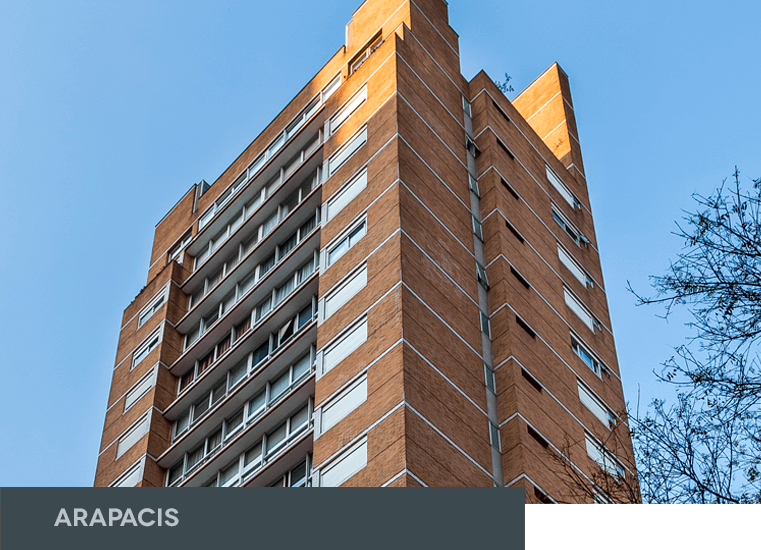
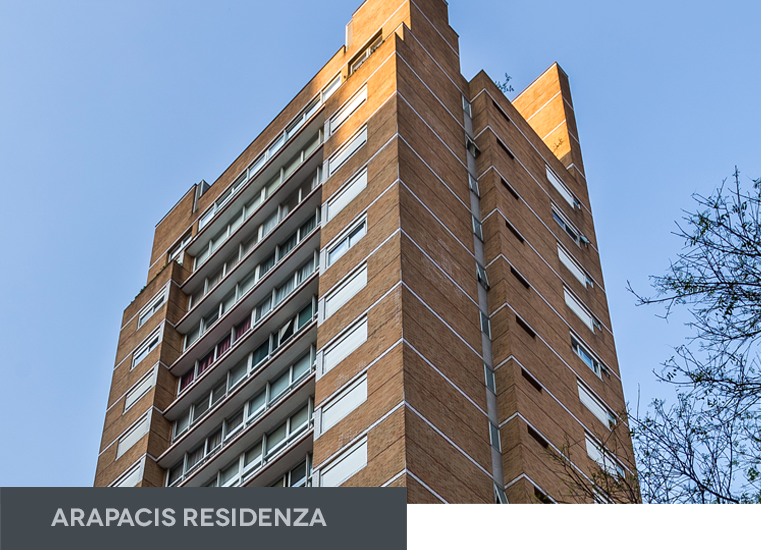
Ajuste pedido cliente

diff --git a/application/views/home_view.php b/application/views/home_view.php
@@ -207,13 +207,10 @@
                     <p>empreendimentos <span>residenciais</span></p>
                 </div>
             </div>
-
-
-
-            <!--<div class="col-xs-12 visible-xs margin-top-20"></div>
+            <div class="col-xs-12 visible-xs margin-top-20"></div>
             <div class="col-xs-12 col-sm-12 col-md-10 col-md-offset-1 padding-off-mobile animated wow bounceInRight">
                 <div class="col-xs-12 col-sm-6">
-                    <p class="p-r">empreendimentos <span>comerciais</span></p>
+                    <p class="p-r"><span>Hotelaria</span></p>
                 </div>
                 <div class="col-xs-12 col-sm-6 padding-off-mobile">
                     <div class="carousel slide media-carousel" id="hotelaria">
@@ -221,40 +218,18 @@
                             <div class="item active">
                                 <div class="row">
                                     <div class="col-xs-12 col-md-12">
-                                        <a href="#" data-toggle="modal" data-target="#Modal-Cidade-Jardim">
-                                            <img class="img-responsive center-block" src="<?= base_url(); ?>assets/images/Cidade-Jardim.png" alt="Cidade Jardim">
-                                        </a>
-                                    </div>
-                                </div>
-                            </div>
-                            <div class="item">
-                                <div class="row">
-                                    <div class=" col-xs-12 col-md-12">
-                                        <a href="#" data-toggle="modal" data-target="#Modal-trade-building">
-                                            <img class="img-responsive center-block" src="<?= base_url(); ?>assets/images/trade-building.png" alt="Trade Building">
-                                        </a>
-                                    </div>
-                                </div>
-                            </div>
-                            <div class="item">
-                                <div class="row">
-                                    <div class="col-xs-12 col-md-12">
-                                        <a href="#" data-toggle="modal" data-target="#Modal-Tower-Sao-Paulo">
-                                            <img class="img-responsive center-block" src="<?= base_url(); ?>assets/images/Tower-Sao-Paulo.png" alt="Tower São Paulo">
+                                        <a href="#" data-toggle="modal" data-target="#Modal-Arapacis">
+                                            <img class="img-responsive center-block" src="<?= base_url(); ?>assets/images/Arapacis.png" alt="ARAPACIS RESIDENZA">
                                         </a>
                                     </div>
                                 </div>
                             </div>
                         </div>
-                        <a data-slide="prev" href="#comerciais" class="left carousel-control">‹</a>
-                        <a data-slide="next" href="#comerciais" class="right carousel-control">›</a>
+                        <!-- <a data-slide="prev" href="#hotelaria" class="left carousel-control">‹</a>
+                        <a data-slide="next" href="#hotelaria" class="right carousel-control">›</a> -->
                     </div>
                 </div>
-            </div>-->
-
-
-
-
+            </div>
         </div>
     </div>
 </div>

diff --git a/application/views/contato_insucesso.php b/application/views/contato_insucesso.php
@@ -47,9 +47,9 @@
                 <h2>história</h2>
                 <img class="img-responsive center-block" src="<?= base_url(); ?>assets/images/seta.png" alt="seta">
                 <h6>Uma história de realizações. Um futuro de sucesso.</h6>
-                <p>Tradição. Segurança. Qualidade. Estas são as marcas da M.A Empreendimentos 
-                    Imobiliários (antiga Munir Abbud Empreendimentos Imobiliários), que ao longo 
-                    de mais de quatro décadas vem desenvolvendo dezenas de empreendimentos 
+                <p>Tradição. Segurança. Qualidade. Estas são as marcas da M.A Empreendimentos
+                    Imobiliários (antiga Munir Abbud Empreendimentos Imobiliários), que ao longo
+                    de mais de quatro décadas vem desenvolvendo dezenas de empreendimentos
                     consagrados, ajudando escrever a história da construção civil de São Paulo.</p>
             </div>
             <div class="col-xs-12 col-sm-12 col-md-8 col-md-offset-2 margin-top-40 text-center animated wow zoomIn">
@@ -206,6 +206,29 @@
                 </div>
                 <div class="col-xs-12 col-sm-6 hidden-xs">
                     <p>empreendimentos <span>residenciais</span></p>
+                </div>
+            </div>
+            <div class="col-xs-12 visible-xs margin-top-20"></div>
+            <div class="col-xs-12 col-sm-12 col-md-10 col-md-offset-1 padding-off-mobile animated wow bounceInRight">
+                <div class="col-xs-12 col-sm-6">
+                    <p class="p-r"><span>Hotelaria</span></p>
+                </div>
+                <div class="col-xs-12 col-sm-6 padding-off-mobile">
+                    <div class="carousel slide media-carousel" id="hotelaria">
+                        <div class="carousel-inner">
+                            <div class="item active">
+                                <div class="row">
+                                    <div class="col-xs-12 col-md-12">
+                                        <a href="#" data-toggle="modal" data-target="#Modal-Arapacis">
+                                            <img class="img-responsive center-block" src="<?= base_url(); ?>assets/images/Arapacis.png" alt="ARAPACIS RESIDENZA">
+                                        </a>
+                                    </div>
+                                </div>
+                            </div>
+                        </div>
+                        <!-- <a data-slide="prev" href="#hotelaria" class="left carousel-control">‹</a>
+                        <a data-slide="next" href="#hotelaria" class="right carousel-control">›</a> -->
+                    </div>
                 </div>
             </div>
         </div>

diff --git a/application/views/contato_sucesso.php b/application/views/contato_sucesso.php
@@ -45,9 +45,9 @@
                 <h2>história</h2>
                 <img class="img-responsive center-block" src="<?= base_url(); ?>assets/images/seta.png" alt="seta">
                 <h6>Uma história de realizações. Um futuro de sucesso.</h6>
-                <p>Tradição. Segurança. Qualidade. Estas são as marcas da M.A Empreendimentos 
-                    Imobiliários (antiga Munir Abbud Empreendimentos Imobiliários), que ao longo 
-                    de mais de quatro décadas vem desenvolvendo dezenas de empreendimentos 
+                <p>Tradição. Segurança. Qualidade. Estas são as marcas da M.A Empreendimentos
+                    Imobiliários (antiga Munir Abbud Empreendimentos Imobiliários), que ao longo
+                    de mais de quatro décadas vem desenvolvendo dezenas de empreendimentos
                     consagrados, ajudando escrever a história da construção civil de São Paulo.</p>
             </div>
             <div class="col-xs-12 col-sm-12 col-md-8 col-md-offset-2 margin-top-40 text-center animated wow zoomIn">
@@ -204,6 +204,29 @@
                 </div>
                 <div class="col-xs-12 col-sm-6 hidden-xs">
                     <p>empreendimentos <span>residenciais</span></p>
+                </div>
+            </div>
+            <div class="col-xs-12 visible-xs margin-top-20"></div>
+            <div class="col-xs-12 col-sm-12 col-md-10 col-md-offset-1 padding-off-mobile animated wow bounceInRight">
+                <div class="col-xs-12 col-sm-6">
+                    <p class="p-r"><span>Hotelaria</span></p>
+                </div>
+                <div class="col-xs-12 col-sm-6 padding-off-mobile">
+                    <div class="carousel slide media-carousel" id="hotelaria">
+                        <div class="carousel-inner">
+                            <div class="item active">
+                                <div class="row">
+                                    <div class="col-xs-12 col-md-12">
+                                        <a href="#" data-toggle="modal" data-target="#Modal-Arapacis">
+                                            <img class="img-responsive center-block" src="<?= base_url(); ?>assets/images/Arapacis.png" alt="ARAPACIS RESIDENZA">
+                                        </a>
+                                    </div>
+                                </div>
+                            </div>
+                        </div>
+                        <!-- <a data-slide="prev" href="#hotelaria" class="left carousel-control">‹</a>
+                        <a data-slide="next" href="#hotelaria" class="right carousel-control">›</a> -->
+                    </div>
                 </div>
             </div>
         </div>

diff --git a/application/views/rodape.php b/application/views/rodape.php
@@ -114,9 +114,9 @@
     <div class="modal-dialog modal-lg" role="document">
         <a class="close" data-dismiss="modal" aria-label="Close" href="">X</a>
         <div class="col-sm-12 text-center">
-            <p>ARAPACIS<br>
-                1 TORRE – 32 UNIDADES<br>
-                ITAIM</p>
+            <p>ARAPACIS RESIDENZA<br>
+                APTOS DE 120 m²<br>
+                ITAIM BIBI</p>
         </div>
         <img class="img-responsive center-block" src="<?= base_url(); ?>assets/images/arapacis-full.jpg" alt="Arapacis">
     </div>
